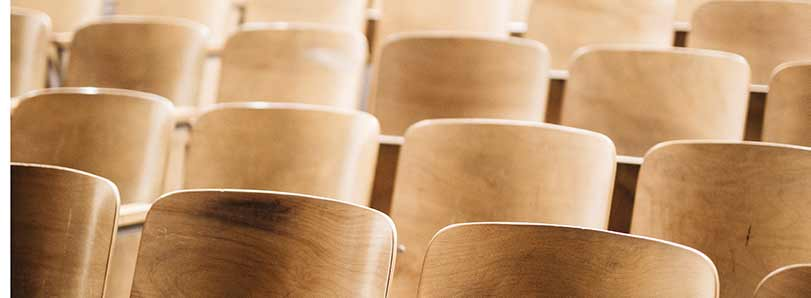
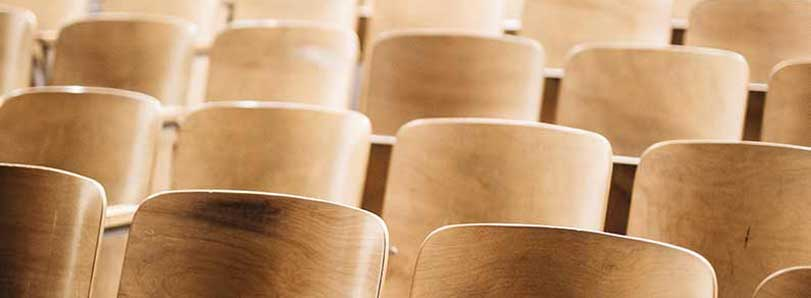
Fix:
- kokous image
- remove eye-icon

diff --git a/src/components/EventCard/index.tsx b/src/components/EventCard/index.tsx
@@ -63,6 +63,7 @@ const Race = styled(Medal)`
 const common = css`
   color: white;
   height: 20px;
+  padding: 5px;
   &:hover {
     cursor: pointer;
   }
@@ -145,7 +146,8 @@ const EventCard: FunctionComponent<IProps> = (props: IProps) => {
   };
   const raceElem = race ? <Race /> : null;
 
-  const exposeDetails = () => {
+  const exposeDetails = (e: any) => {
+    e.stopPropagation();
     if (!stayOpened) {
       setShowDetails(!showDetails);
     }
@@ -159,7 +161,6 @@ const EventCard: FunctionComponent<IProps> = (props: IProps) => {
 
   const [showDetails, setShowDetails] = useState(stayOpened);
   const [disableDelete, setDisableDelete] = useState(true);
-  // const ExposeArrow = showDetails ? UpArrow : DownArrow;
 
   const eyeButton = onViewClick ? <EyeBtn onClick={viewClick} /> : null;
   const toggleOpenButton = !stayOpened ? (
@@ -193,8 +194,8 @@ const EventCard: FunctionComponent<IProps> = (props: IProps) => {
                 position: 'relative',
               }}
             >
-              <Card width="100%" mx="auto" variant="shadow">
-                <ImageBox bgImage={eventImage || type.defaultImage}>
+              <Card width="100%" mx="auto" variant="shadow"  >
+                <ImageBox bgImage={eventImage || type.defaultImage} onClick={viewClick}>
                   <Flex
                     width="100%"
                     alignItems="center"
@@ -210,7 +211,6 @@ const EventCard: FunctionComponent<IProps> = (props: IProps) => {
                   >
                     <Flex ml={2}>
                       {toggleOpenButton}
-                      {eyeButton}
                     </Flex>
                     <EditBtn onClick={openPortal} />
                   </Flex>
